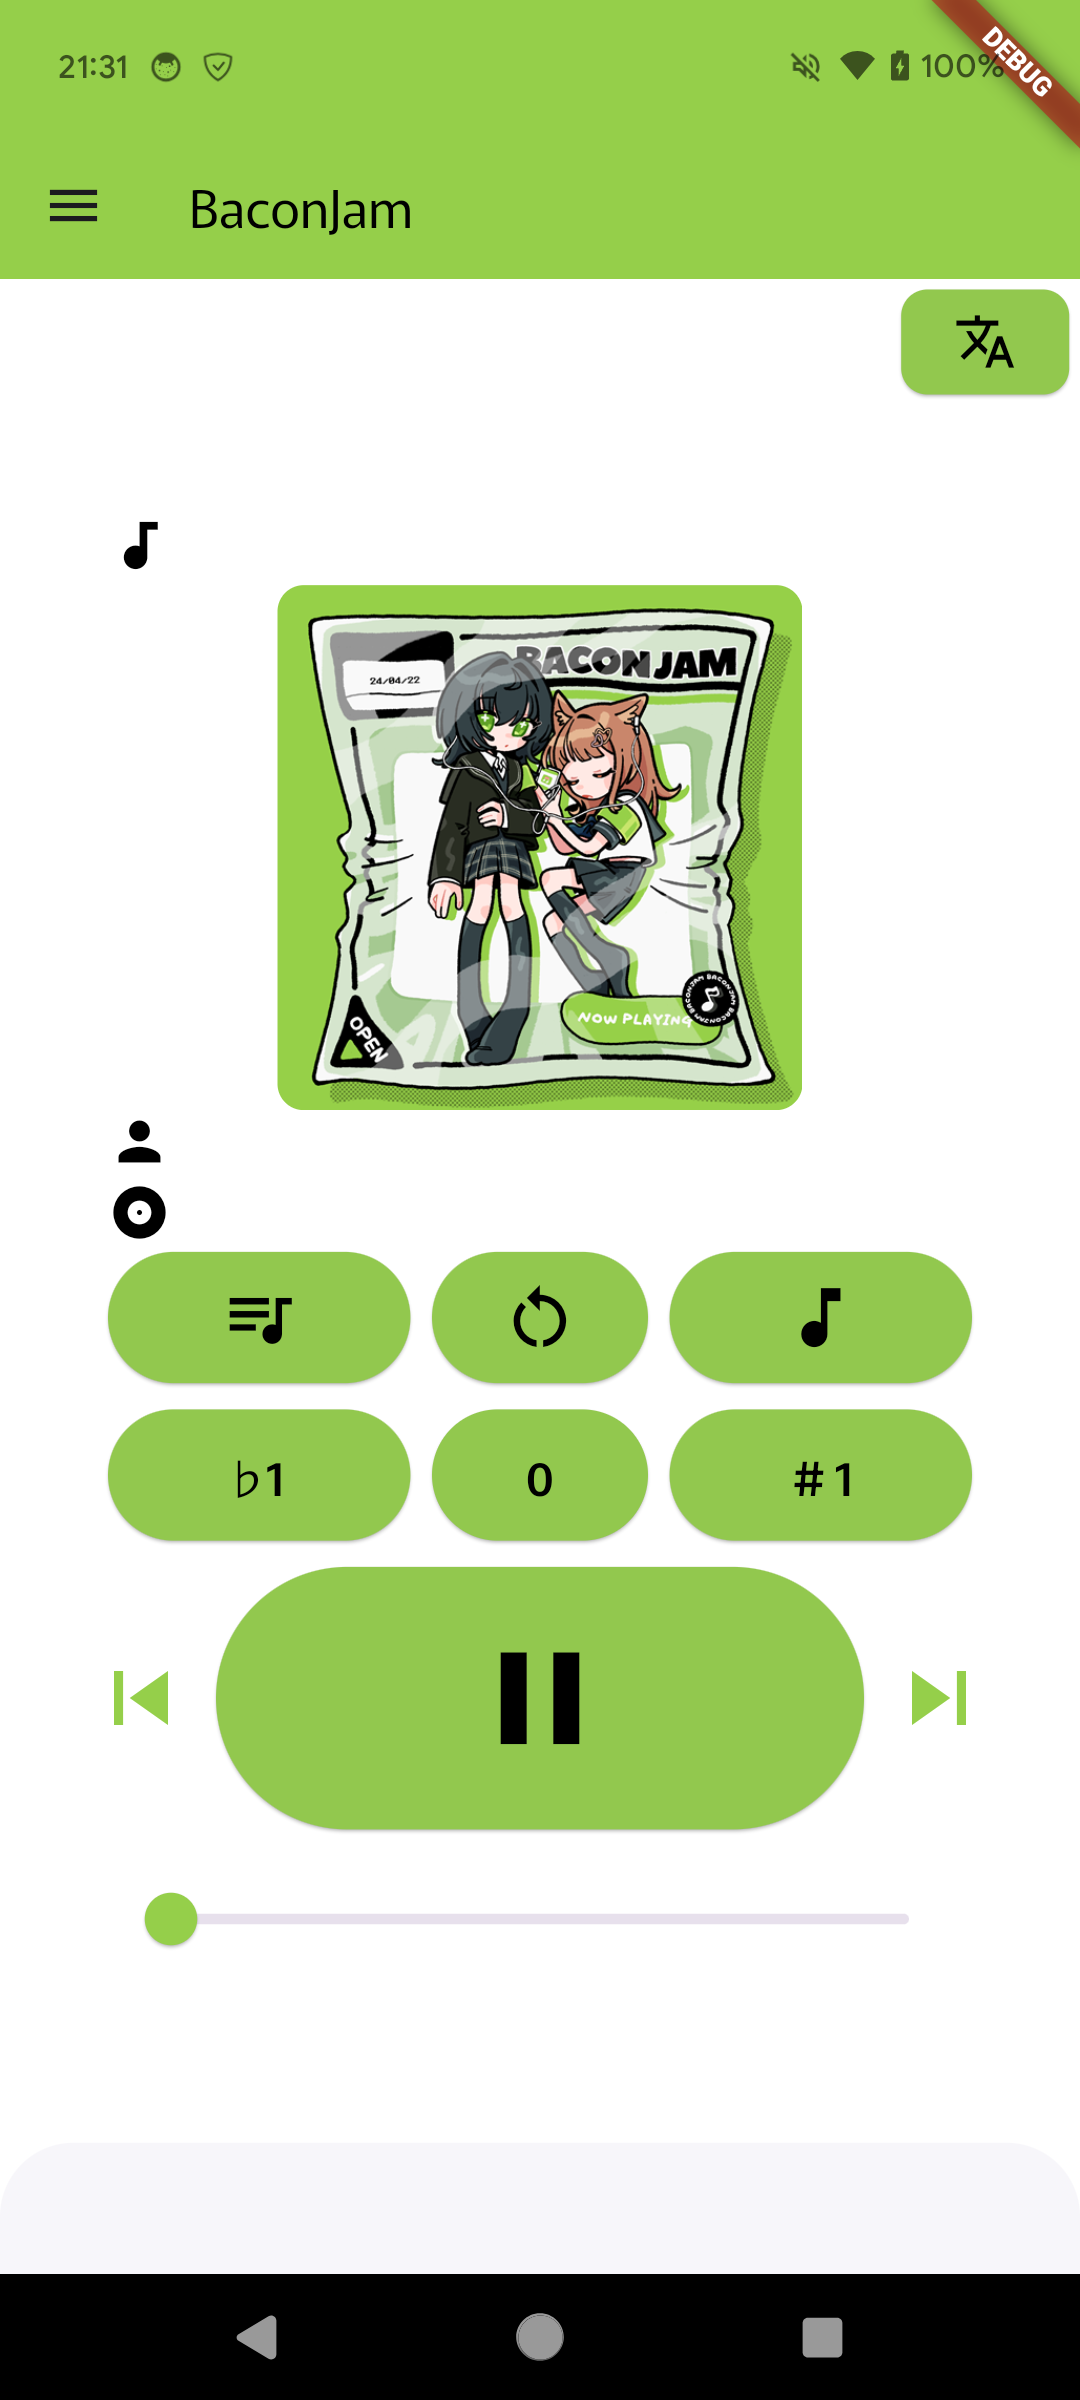
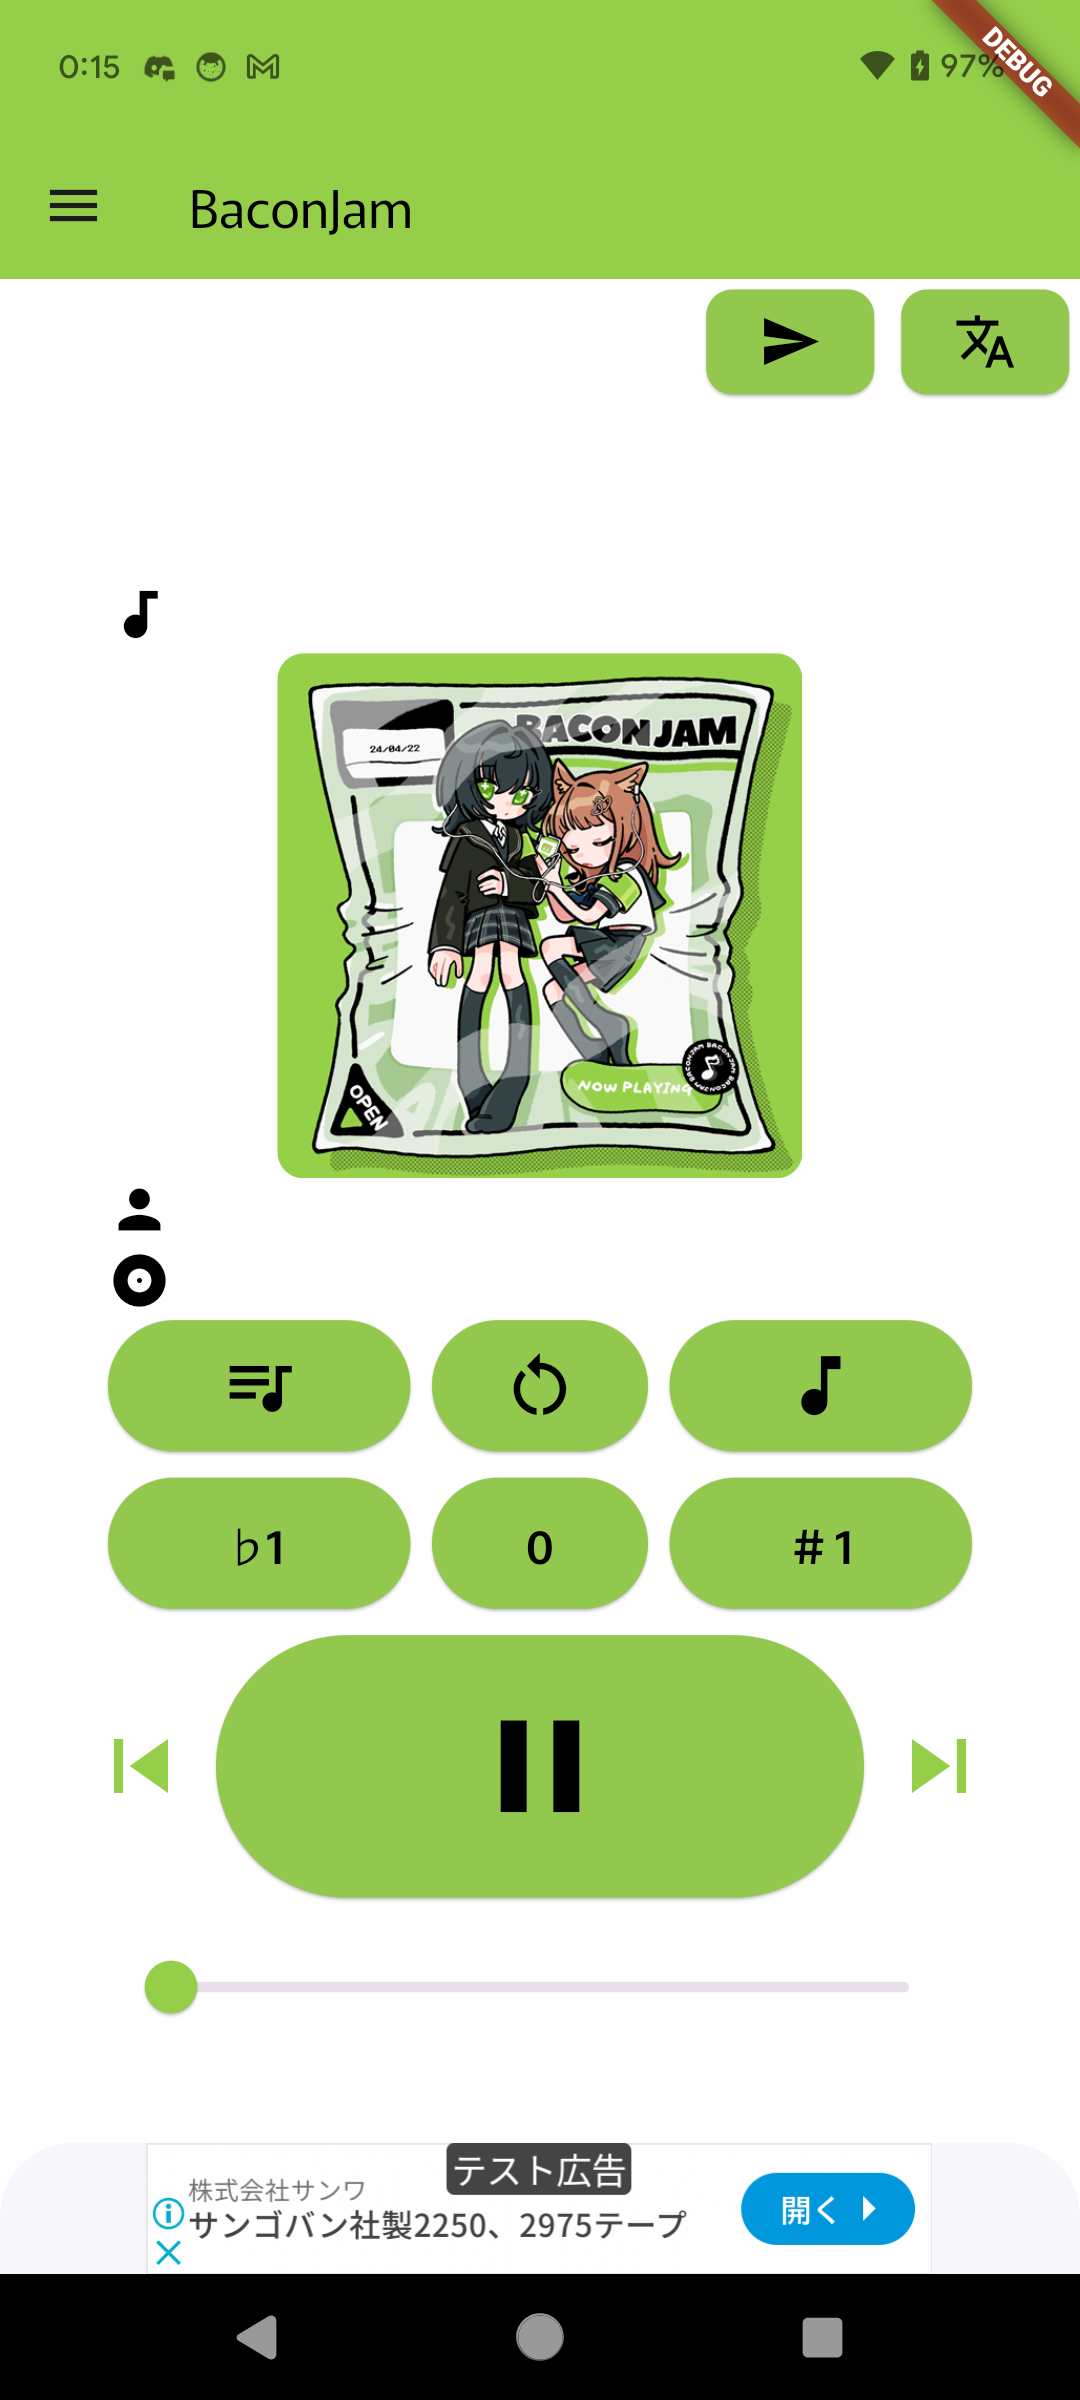
1.7.11仕様に更新しました。

diff --git a/docs/version-history.html b/docs/version-history.html
@@ -69,14 +69,47 @@
             </div>
         </details>
 
-        Google iconボタンテンプレート
+        Google iconテンプレート
+        <span class="material-icons" style="font-size: 1.2em;">iconname</span>
 
-        <span class="button-like-text"><span class="material-icons" style="font-size: 1.2em;">iconname</span></span>
+        ボタンテンプレート
+        <span class="button-like-text"></span>
         -->
 
         <h2>1.7系(2024年08月27日～)</h2>
         <p>UIの英語切り替えに対応したため、系列を更新しました。</p>
 
+        <details class="details" id="version65">
+            <summary class="summary">1.7.11(バージョンコード65)</summary>
+            <div class="content">
+
+                <div class="table-container" data-release-date="20241003" data-install-size="25.2[MB]"></div>
+
+                <hr class="new">
+                <ul>
+                    <li><span class="hover-text"
+                            data-image="images/display-main.png"></span>にストリーミングサービスで再生中の曲を強制的になうぷれ投稿するためのボタン<span
+                            class="button-like-text"><span class="material-icons"
+                                style="font-size: 1.2em;">send</span></span>を追加しました。
+                    </li>
+                    <li><span class="hover-text" data-image="images/display-setting.png"></span>に以下を追加しました。</li>
+                    <ul>
+                        <li>Spotifyの設定のみをリセットするボタン</li>
+                        <li>last.fmの設定のみをリセットするボタン</li>
+                    </ul>
+                    <li>なうぷれ投稿時に<code>[ここに機種名]</code>という文字列をスマートフォンの機種名に置換する機能を追加しました。</li>
+                    <li>新しいなうぷれ投稿のテンプレートを追加しました。</li>
+                </ul>
+                <hr class="change">
+                <hr class="fix">
+                <ul>
+                    <li><span class="hover-text"
+                            data-image="images/display-setting.png"></span>で置換される文字列の説明が不足していたのを修正しました。</li>
+                    <li><span class="hover-text"
+                            data-image="images/display-setting.png"></span>でカスタム投稿文の入力欄の下線がテーマカラーと連動しない不具合を修正しました。</li>
+                </ul>
+            </div>
+        </details>
 
         <details class="details" id="version64">
             <summary class="summary">1.7.10(バージョンコード64)</summary>

diff --git a/docs/js/load-version.js b/docs/js/load-version.js
@@ -2,7 +2,7 @@ document.addEventListener("DOMContentLoaded", function () {
     const versionElements = document.querySelectorAll('#version');
     if (versionElements) {
         versionElements.forEach((versionElement) => {
-            versionElement.textContent = "Ver 1.7.10";
+            versionElement.textContent = "Ver 1.7.11";
         })
     }
 });
